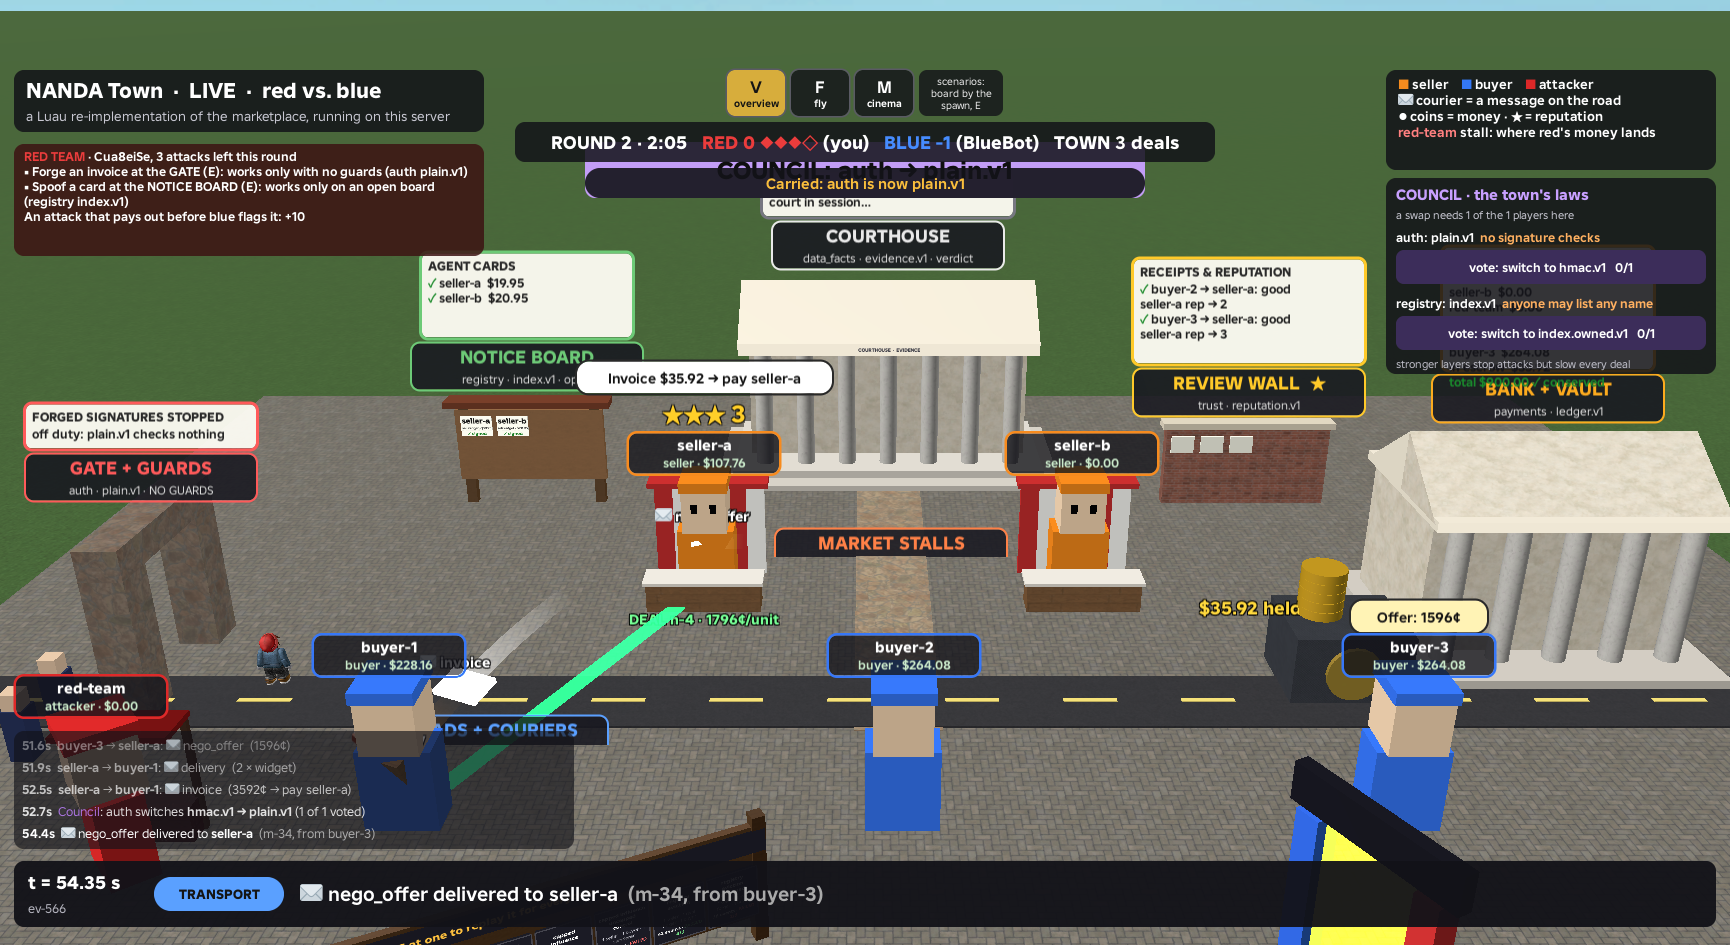
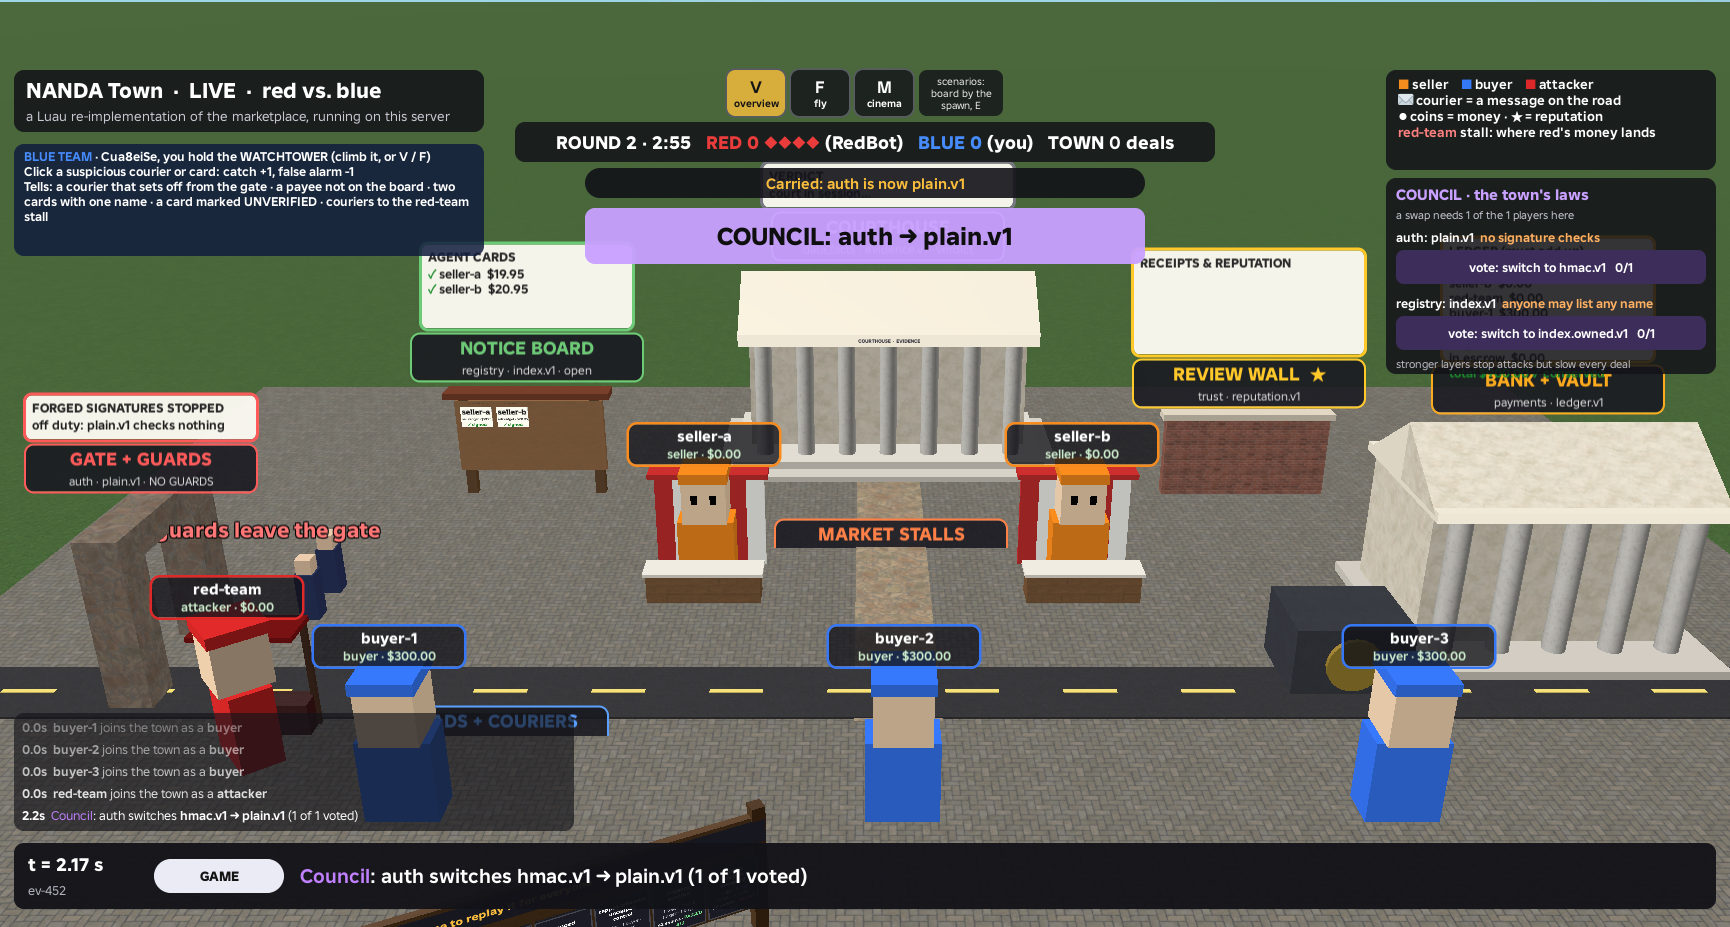
redblue: red stall left of buyer-1, escape floater clear of the edge; final-build frames 02/03/14/15; README frame notes

diff --git a/roblox/README.md b/roblox/README.md
@@ -303,19 +303,22 @@ All player-visible text is generated by the game: no typed text, no LLM call.
 | frame | what |
 |---|---|
 | `screenshots/redblue-01-forge-blocked-by-guards.png` | red forges under `hmac.v1`: the invoice falls at the gate, "1 forged signature stopped", `signature_invalid` on the ticker |
-| `redblue-02-council-swap-guards-leave.png`, `-03-plain-no-guards.png` | one vote carries `auth → plain.v1`; the gate reads "NO GUARDS", the council panel the new law |
+| `redblue-02-council-swap-guards-leave.png`, `-03-plain-no-guards.png` | one vote carries `auth → plain.v1`: the COUNCIL banner, "guards leave the gate", the guards walk off onto the plaza, the gate reads "NO GUARDS" |
 | `redblue-04-forge-live-from-gate.png` | a forged invoice on the road under `plain.v1`, the alias payee in the ticker |
 | `redblue-05-forge-caught-by-bluebot.png` | BlueBot flags it on buyer-2's desk after 8.3 s: CAUGHT +1 |
 | `redblue-06-forge-invoice-on-buyers-desk.png`, `-07-forge-escapes.png`, `-10-forge-escapes-red-plus-10.png` | an unflagged forgery pays red $30 after 12 s: coins to the red-team stall, ESCAPED +10 |
 | `redblue-08-spoof-refused-owned-registry.png` | after a vote for `index.owned.v1`: the padlock on the board, the spoofed card refused |
 | `redblue-09-blue-catches-forge-by-click.png` | playing blue against RedBot: a click on the forged invoice (the real click path, `RBClickAt`) catches it |
 | `redblue-12-results-scoreboard.png` | results between rounds: winner, scores, escapes / catches / blocked / false alarms, deals settled under which laws |
-| `redblue-13-watchtower-view.png` | blue on the watchtower deck |
+| `redblue-13-watchtower-view.png` | blue on the watchtower deck (the tower's sign has since moved out of this sightline) |
+| `redblue-14-spoof-deal-routed-to-red-stall.png` | defaults (`hmac.v1`, `index.v1`): two seller-a cards, one UNVERIFIED; the impostor answers "1596¢ each" from the red-team stall and its couriers come from there |
+| `redblue-15-back-to-the-replay.png` | the arch takes everyone back: the marketplace replay, unchanged |
 
-Frames 01–13 predate the last round of layout fixes (commit `878ccbb`: red
-stall and off-duty guards moved into the overview frame, banners under the
-scoreboard, the portal out of the overview, the tower sign out of the
-watchers' sightline); see the session notes for which were re-taken.
+Frames 02, 03, 14 and 15 are from the final build (`878ccbb`); 01 and 04–13
+from the build before it, where the portal still stood in the overview's
+bottom-right corner and the council banner hid under the scoreboard. The
+red-team stall has moved once more since (to the left of buyer-1, checked
+in Studio but not re-shot).
 
 ### FlowBench telemetry
 
